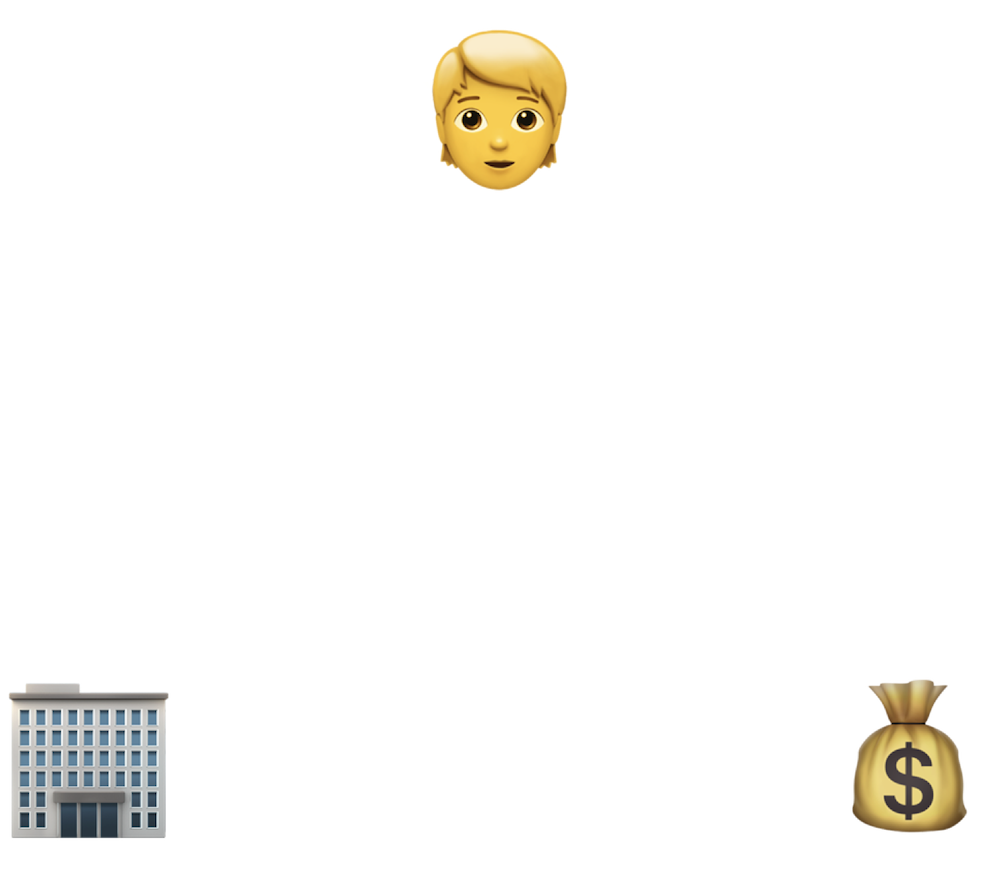
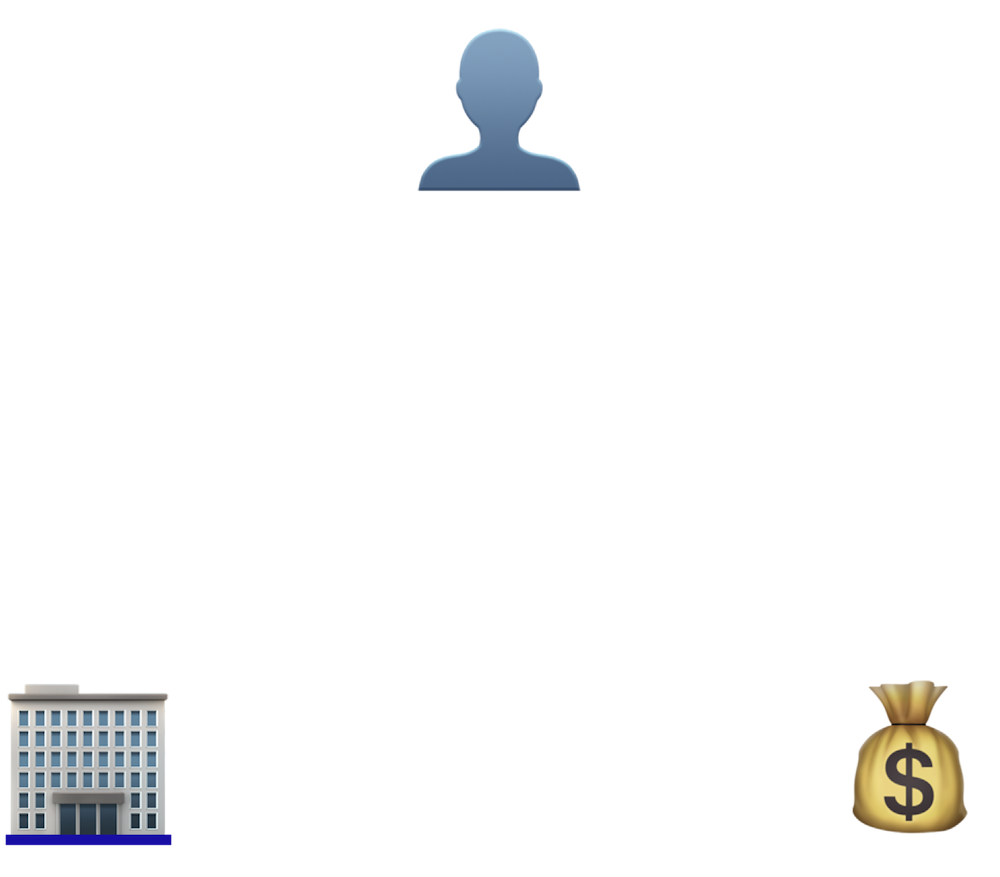
added archive inpainting

Changed region(s): [[0.0, 0.8014, 0.186, 0.9863], [0.403, 0.0308, 0.589, 0.2158]]

diff --git a/projects/archival.html b/projects/archival.html
@@ -1,0 +1,120 @@
+<!DOCTYPE html>
+<html>
+<head>
+  <title>Sean Greaves</title>
+  <meta charset="utf-8"/>
+  <meta name="viewport" content="width=device-width, initial-scale=1.0">
+  <meta name="description" content="Sean Greaves' Portfolio">
+  <meta name="keywords" content="Sean Greaves, Design, Technology, Art, Portfolio">
+  <link rel="icon" type="image/x-icon" href="/images/fire.png">
+</head>
+<link rel="preconnect" href="https://fonts.googleapis.com">
+<link rel="preconnect" href="https://fonts.gstatic.com" crossorigin>
+<link href="https://fonts.googleapis.com/css2?family=IBM+Plex+Mono:wght@300;400;500&display=swap" rel="stylesheet">
+<script src="https://ajax.googleapis.com/ajax/libs/jquery/1.7.1/jquery.min.js" type="text/javascript"></script>
+<link rel="stylesheet" type="text/css" href="main.css">
+<body>
+  <div class="main">
+    <div class="flex-container">
+      <li class="unselect-tab"><a class="quiet-link" href="../index.html"><h3>bio</h3></a></li>
+      <li class="select-tab unselect-tab"><a class="quiet-link" href="../work.html"><h3>work</h3></a></li>
+      <li class="fl"></li>
+      <!-- <li class="none"><h3 class="name">Sean Greaves</h3></li> -->
+    </div>
+    <div class="content">
+      <div class = "flex-container">
+        <div>
+          <h1 class="project-title">Inpainting the Archive</h1>
+          <br>
+          <p>Inpainting is the task of filling in the missing regions of an image with content. Denoising Diffusion Probabilistic Models (DDPM) represent an emerging paradigm in generative modelling and
+have been shown to outperform state of the art GAN-based approaches to inpainting <a href="https://arxiv.org/abs/2201.09865" target="_blank">(Lugmayr et
+al., 2022</a>). I was curious to explore how this technique could assist associative research workflows through ingesting fragments of conceptually linked imagery and generating new images and conceptual associations. I am attracted to the idea of fragments of information, connected through archives like Wikipedia, becoming spores in culture, growing and
+composing new forms and possibilities.</p>
+<br>
+<figure>
+  <img style="max-width:100%" src="images/archival/deception_tryp.png">
+  <figcaption>Selection of images from Wikipedia pages that backlink to the entry for <a href="https://en.wikipedia.org/wiki/Deception" target="_blank">Deception</a>: <a href="https://en.wikipedia.org/wiki/Secrecy" target="_blank">Secrecy</a> (left), <a href="https://en.wikipedia.org/wiki/Signals_intelligence" target="_blank">Signal Intelligence</a> (middle) & <a href="https://en.wikipedia.org/wiki/Scrabble" target="_blank">Scrabble</a> (right)</figcaption>
+</figure>
+<br>
+<div class="row">
+  <div class="column">
+    <figure>
+      <img style="max-width:100%" src="images/archival/secrecy_map.png">
+      <figcaption>Backlink fragment map:<br>1 - <a href="https://commons.wikimedia.org/wiki/File:Scrabble_game_in_progress.jpg" target="_blank">Scrabble</a><br>2 - <a href="https://commons.wikimedia.org/wiki/File:Menwith-hill-radomes.jpg" target="_blank">Signal Intelligence</a><br>3 - <a href="https://commons.wikimedia.org/wiki/File:Moritz_Stifter_Das_Geheimnis_1885.jpg" target="_blank">Secrecy</a><br></figcaption>
+    </figure>
+  </div>
+  <div class="column">
+    <figure>
+      <img style="max-width:100%" src="images/archival/secrecy.png">
+      <figcaption>Image generated from 'Deception' backlinked image fragments</figcaption>
+    </figure>
+  </div>
+</div>
+<br>
+<p>Inspired by the anchors black-box model interpretability algorithm (<a href="https://homes.cs.washington.edu/~marcotcr/aaai18.pdf" target="_blank">Ribeiro et al., 2018</a>) for
+visualising the contribution of regions within an image towards a machine learning model’s
+classification, I defined an alternative system leveraging Wikimedia’s extensive image archive
+that combines regions of images to generate any number of ambiguous and unclassifiable images. I'm continuing to explore the how fragments of images can be used to reinforce binary classifications
+whilst also acting as portals to an infinite array of new images and potential associations.</p>
+<br><br>
+<div class="row">
+  <div class="column">
+    <figure>
+      <img style="max-width:100%" src="images/archival/map.png">
+      <figcaption>Backlink fragment map:<br>
+1, 2, 6 - <a href="https://commons.wikimedia.org/wiki/File:Aerial_view_of_Grand_Prismatic_(23428929375).jpg" target="_blank">Hot Springs</a><br>
+4 - <a href="https://commons.wikimedia.org/wiki/File:ISS_Unity_module.jpg" target="_blank">International Space Station</a><br>
+3, 5 - <a href="https://commons.wikimedia.org/wiki/File:Mono_lake_reflections.jpg" target="_blank">Spirochaeta americana</a></figcaption>
+    </figure>
+  </div>
+  <div class="column">
+    <figure>
+      <img style="max-width:100%" src="images/archival/extremogen.png">
+      <figcaption>Image generated from 'Extremophile' backlinked image fragments</figcaption>
+    </figure>
+  </div>
+</div>
+
+<div class="row">
+  <div class="column">
+    <figure>
+      <img style="max-width:100%" src="images/archival/aerial_map.png">
+      <figcaption>‘Unmanned aerial vehicle’ backlinks:<br>
+1 - <a href="https://commons.wikimedia.org/wiki/File:Disney%27s_Typhoon_Lagoon_(28923104866).jpg" target="_blank">Walt Disney World</a><br>
+2 - <a href="https://commons.wikimedia.org/wiki/File:Forest_LIDAR.jpg" target="_blank">Lidar</a><br>
+3 - <a href="https://commons.wikimedia.org/wiki/File:DARPA_HQ_(52368078715).jpg" target="_blank">DARPA</a></figcaption>
+    </figure>
+  </div>
+  <div class="column">
+    <figure>
+      <img style="max-width:100%" src="images/archival/aerial.png">
+      <figcaption>Image generated from 'Unmanned aerial vehicle' backlinked image fragments</figcaption>
+    </figure>
+  </div>
+</div>
+
+<div class="row">
+  <div class="column">
+    <figure>
+      <img style="max-width:100%" src="images/archival/tax_map.png">
+      <figcaption>‘Tax’ backlinks:<br>
+1,4 - <a href="https://commons.wikimedia.org/wiki/File:Gloomy_Sunset_After_The_Rain_in_Kampar.jpg" target="_blank">Perak</a> <br>
+2 - <a href="https://commons.wikimedia.org/wiki/File:Bequer-B100-SOJA-SOYBEAM.jpg" target="_blank">Biodiesel</a><br>
+3 - <a href="https://commons.wikimedia.org/wiki/File:Cop%C3%A1n_Stela_P.jpg" target="_blank">610s</a></figcaption>
+    </figure>
+  </div>
+  <div class="column">
+    <figure>
+      <img style="max-width:100%" src="images/archival/tax.png">
+      <figcaption>Image generated from 'Tax' backlinked image fragments</figcaption>
+    </figure>
+  </div>
+</div>
+<p>  Inspiration for this system was developed over a number of evenings leading a Creative Coding meet-up during a programming retreat at the Recurse Center in NYC.
+
+        </div>
+      </div>
+    </div>
+  </div>
+</body>
+</html>

diff --git a/work.html b/work.html
@@ -24,7 +24,7 @@
     <div class="content">
       <div class="row">
         <div class="column">
-          <a href="projects/sugartrail.html" target="_blank">
+          <a href="projects/sugartrail.html">
             <div class="project">
               <div class="backdrop">
                 <img src="images/candy.png">
@@ -34,7 +34,7 @@
           </a>
         </div>
         <div class="column">
-          <a href="projects/webradio.html" target="_blank">
+          <a href="projects/webradio.html">
             <div class="project">
               <div class="backdrop">
                 <img src="images/radio.png">
@@ -43,8 +43,8 @@
             </div>
           </a>
         </div>
-        <!-- <div class="column">
-          <a href="https://observablehq.com/d/eaa1981b8138dd27#cell-1" target="_blank">
+        <div class="column">
+          <a href="projects/archival.html">
             <div class="project">
               <div class="backdrop">
                 <img src="images/archive.png">
@@ -52,7 +52,7 @@
               <h4 class="project-title">Archival Inpaint</h4>
             </div>
           </a>
-        </div> -->
+        </div>
         <div class="column">
           <a href="projects/haircare.html">
             <div class="project">
